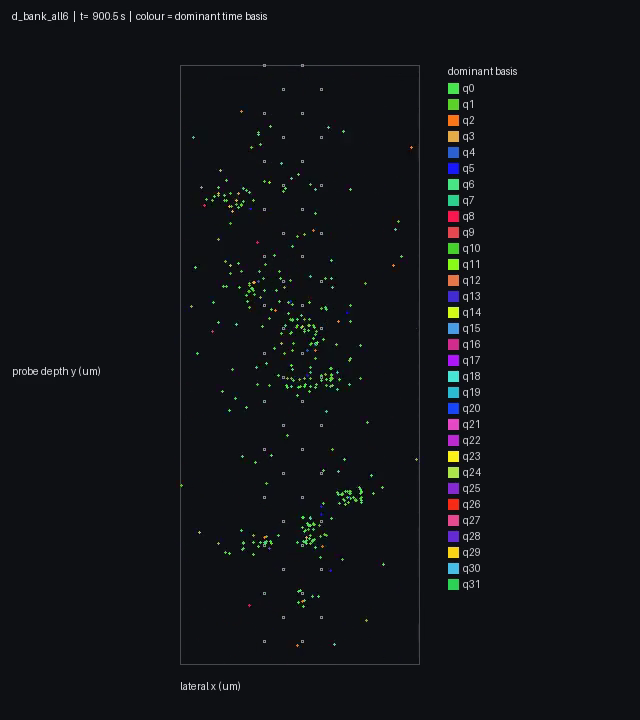
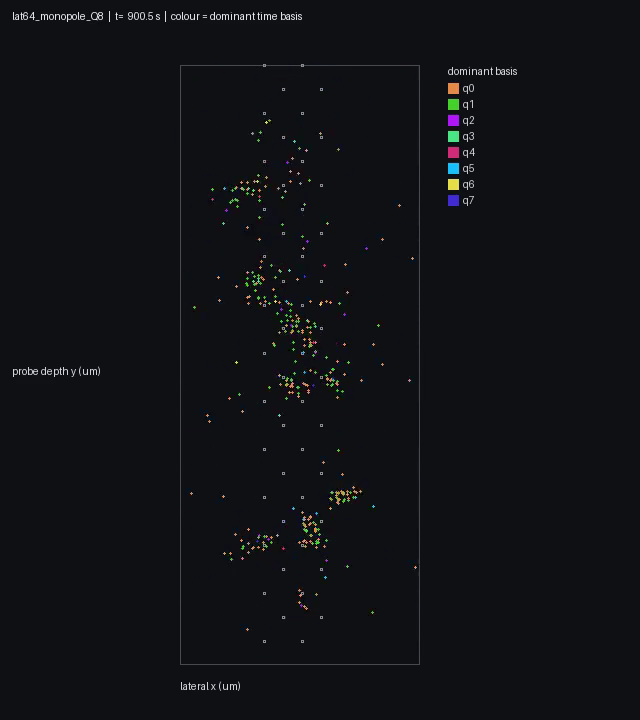
Use lat64_monopole_Q8 as the README's representative fit
64^3 sites x 10 monopole scales with a Q=8 time basis, in place of the
six-family mixed dictionary. A single-family codebook is the clearer thing to
document first, and at Q=8 every basis component is a recognisable waveform
shape rather than the high-frequency ripple that filled most of the Q=32 grid.

diff --git a/README.md b/README.md
@@ -204,8 +204,10 @@ once, which is how a hyperparameter axis is best read.
 
 ## The panels
 
-Every row carries all of the following. Screenshots below are from `d_bank_all6` — a 64³
-lattice with a six-family mixed dictionary, the best reconstruction in the sweep.
+Every row carries all of the following. Screenshots below are from **`lat64_monopole_Q8`**
+— a 64³ lattice (262,144 sites) with 10 monopole scales and a Q=8 time basis, fitted to
+2.48 M spikes. It reaches nMSE 0.1402 and recovers the imposed drift at r = +0.857, close to
+the monopole baseline's +0.865, using 38% of its sites and 263,418 of its 2.6 M candidates.
 
 ### `dc` — pairwise ZNCC and the recovered motion
 
@@ -255,15 +257,18 @@ moving, so correlation reads as success where slope reads as failure.
 ![components](docs/panels/components.png)
 
 The time basis, where in the volume the sites actually get used, depth usage across the
-geometric z lattice, and profile usage coloured by kernel family with per-family
-percentages — which is how a mixed dictionary reveals its composition.
+geometric z lattice, and profile usage with bars coloured by kernel family. For a
+single-family dictionary like this one the last panel reads as a scale histogram; for a
+mixed dictionary it is how the composition is revealed, with the per-family share in the
+title.
 
 ### `basis` — the time basis, one panel per component
 
 ![basis](docs/panels/basis.png)
 
-The overlaid basis is unreadable at Q=32, so each component gets its own panel, sorted by
-usage and coloured by rank. Since `v_s` is free, no spike "uses" one component outright;
+Overlaying the basis becomes unreadable as Q grows, so each component gets its own panel,
+sorted by usage and coloured by rank; the grid adapts to Q. Since `v_s` is free, no spike
+"uses" one component outright;
 the hard label is `argmax_q |v[s,q]|`. The bar chart reports both how many spikes each
 component dominates and its share of `Σv²`, because the two can disagree. The scatters
 below colour every spike by its dominant component.
